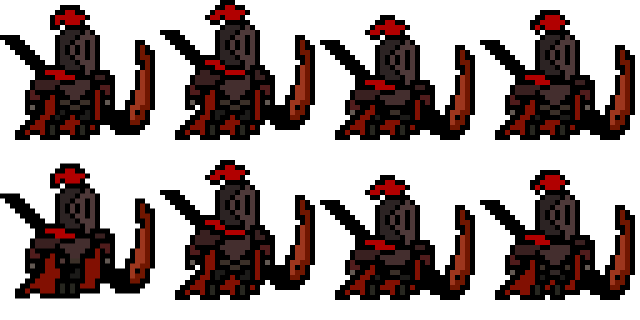
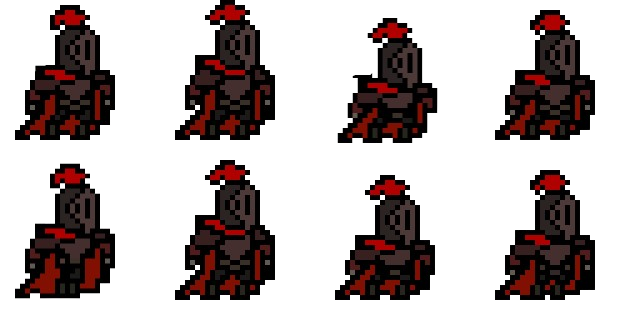
바로 백엔드 정상화

diff --git a/public/game/src/main.js b/public/game/src/main.js
@@ -65,23 +65,23 @@ const options = [
   },
   {
     title: '가속',
-    description: '이동 속도를 0.4 증가시킨다.',
+    description: '이동 속도를 0.2 증가시킨다.',
     type: 3,
-    value: 0.4,
+    value: 0.2,
     level: 1
   },
   {
     title: '가속+',
-    description: '이동 속도를 0.8 증가시킨다.',
+    description: '이동 속도를 0.4 증가시킨다.',
     type: 3,
-    value: 0.8,
+    value: 0.4,
     level: 2
   },
   {
     title: '가속++',
-    description: '이동 속도를 1.5 증가시킨다.',
+    description: '이동 속도를 0.8 증가시킨다.',
     type: 3,
-    value: 1.5,
+    value: 0.8,
     level: 3
   },
   {
@@ -111,10 +111,32 @@ const options = [
     type: 5,
     value: [0.5, 1.8],
     level: 3
+  },
+  {
+    title: '재생',
+    description: '초당 체력을 0.5 회복한다.',
+    type: 6,
+    value: 0.5,
+    level: 1
+  },
+  {
+    title: '재생+',
+    description: '초당 체력을 1 회복한다.',
+    type: 6,
+    value: 1,
+    level: 2
+  },
+  {
+    title: '재생++',
+    description: '초당 체력을 2 회복한다.',
+    type: 6,
+    value: 2,
+    level: 3
   }
 ]
 const enemys = [];
 let boss;
+let regenerative = 0;
 
 const groundPrefab = new Prefab(
   new Entity(
@@ -226,6 +248,10 @@ const onLevelUp = async () => {
             player.maxHealth *= option.value[0];
             player.weapon.damage *= option.value[1];
             player.addHealth(-player.health*option.value[0]);
+            break;
+          case 6:
+            regenerative += option.value;
+            break;
         }
         game.removeElement(overlay);
         resolve();
@@ -259,58 +285,40 @@ const player = new Player(
 
 function genEnemy(x) {
   enemys.push(
-    new Sandbag(
-      game,
-      new Position(x, groundHeight-10),
-      (enemy) => {
+    new Sandbag({
+      game: game,
+      position: new Position(x, groundHeight-10),
+      onDead: (enemy) => {
         const index = enemys.findIndex((e)=>e===enemy);
         if (index !== -1) enemys.splice(index, 1);
       },
-      5 + stage*5,
-      25 + stage*25
-    )
+      damage: 5 + stage*5,
+      health: 25 + stage*25,
+      moveSpeed: 4.2
+    })
   );
   genCount++;
 }
 
 function genBoss() {
-  boss = new Sandbag(
-    game,
-    new Position(-100, groundHeight-10),
-    () => {
+  boss = new Sandbag({
+    game: game,
+    position: new Position(-100, groundHeight-10),
+    onDead: () => {
       boss = null;
       if (stage === 1) {
-        const dialog = new AlertDialog(
-          '무기 스킬 획득',
-          '우클릭을 통하여 낫 투척 사용 가능',
-          {
-            actions: [
-              {
-                text: '확인',
-                color: palette[2],
-                onClick: () => {
-                  player.canWeaponSkill = true;
-                  dialog.close();
-                  if (!player.isProcessingLevelUp) resume();
-                }
-              }
-            ]
-          }
-        );
-        dialog.show(game);
-        pause();
         game.startCoroutine(stage2);
       } else {
         alert('야호 이겼다~!');
       }
     },
-    10+stage*15,
-    300+stage*300,
-    4+stage,
-    1.6,
-    4,
-    10
-  );
+    damage: 10 + stage*15,
+    health: 300 + stage*300,
+    weight: 4 + stage,
+    factor: 1.6,
+    moveSpeed: 5,
+    exp: 10
+  });
 }
 
 function *stage1() {
@@ -344,5 +352,13 @@ function *stage2() {
   genBoss();
 }
 
+function *regeneration() {
+  while (true) {
+    player.addHealth(regenerative);
+    yield waitForDuration(new Duration({second: 1}));
+  }
+}
+
 game.addEntity(endText);
 game.startCoroutine(stage1);
+game.startCoroutine(regeneration);

diff --git a/public/game/src/enemies/enemy.js b/public/game/src/enemies/enemy.js
@@ -1,11 +1,10 @@
-import { Sprite } from '../../entity/data.mjs';
+import { Sprite, Hitbox } from '../../entity/data.mjs';
 import { Size, Position, Color } from '../../graphic/data.mjs';
 import { Duration, waitForDuration } from '../../util/data.mjs';
-import { Decoratable } from '../../entity/data.mjs';
 import ProgressIndicator from '../../ui/progressIndicator.mjs';
 
 class Enemy {
-  constructor(
+  constructor({
     game,
     position,
     size,
@@ -21,7 +20,7 @@ class Enemy {
     weight = 1,
     exp = 1,
     moveSpeed = 3
-  ) {
+  }) {
     this.game = game;
     this.health = maxHealth;
     this.maxHealth = maxHealth;
@@ -47,13 +46,12 @@ class Enemy {
     );
 
     this.hitboxOffset = hitboxPosition;
-    this.hitbox = new Decoratable(
+    this.hitbox = new Hitbox(
       new Position(
         position.x + hitboxPosition.x,
         position.y + hitboxPosition.y
       ),
-      hitboxSize,
-      Color.transparent
+      hitboxSize
     );
 
     this.healthBar = ProgressIndicator.liner(
@@ -127,7 +125,7 @@ class Enemy {
     const playerSprite = this.game.player.sprite;
     while (true) {
       const scaleX = this.sprite.transforms.scaleX || 1;
-      const minDistance = Math.pow(playerSprite.size.width/2, 2);
+      const minDistance = Math.pow(playerSprite.size.width / 2, 2);
       
       if (this.health > 0) {
         const playerPos = playerSprite.position;
@@ -147,12 +145,10 @@ class Enemy {
         }
       }
 
-      this.hitbox.position.x = this.sprite.position.x + this.hitboxOffset.x * scaleX;
-      this.hitbox.position.y = this.sprite.position.y + this.hitboxOffset.y;
-      this.hitbox.setTransform('scaleX', scaleX);
-      
-      this.healthBar.position.x = this.sprite.position.x - this.sprite.size.width*0.25;
-      this.healthBar.position.y = this.sprite.position.y - this.sprite.size.height*0.6;
+      this.hitbox.updatePosition(this.sprite.position, this.hitboxOffset);
+
+      this.healthBar.position.x = this.sprite.position.x - this.sprite.size.width * 0.25;
+      this.healthBar.position.y = this.sprite.position.y - this.sprite.size.height * 0.6;
       
       yield null;
     }

diff --git a/server.js b/server.js
@@ -29,10 +29,8 @@ function getDirectoryList(directoryPath) {
 
 app.get('/file/*', (req, res) => {
   const filePath = path.join(rootDir, req.params[0]);
-  console.log('File path:', filePath);
   res.sendFile(filePath, (err) => {
     if (err) {
-      console.log(err);
       res.status(404).send('<h1>File Not Found</h1>');
     }
   });
@@ -40,15 +38,14 @@ app.get('/file/*', (req, res) => {
 
 app.get('*', async (req, res) => {
   if (req.headers.origin === 'https://file-server.ijw.app') {
-    return res.sendFile(path.join(rootDir, '/file/'+req.path), (err) => {
+    return res.sendFile(path.join(rootDir, 'file', req.path), (err) => {
       if (err) {
-        console.log(err);
         res.status(404).send('<h1>File Not Found</h1>');
       }
     });
   }
+
   let requestedPath = path.join(rootDir, req.path);
-  console.log('Requested path:', requestedPath);
 
   try {
     const stats = fs.statSync(requestedPath);
@@ -71,11 +68,10 @@ app.get('*', async (req, res) => {
       res.sendFile(requestedPath);
     }
   } catch (error) {
-    console.log(error);
     res.status(404).send(`<h1>404 Not Found</h1><code><pre>${error}</pre></code>`);
   }
 });
 
 app.listen(port, () => {
-  console.log(`port: ${port}`);
+  console.log(`Server is running on port ${port}`);
 });

diff --git a/public/game/src/weapons/scythe.js b/public/game/src/weapons/scythe.js
@@ -33,14 +33,14 @@ class Scythe extends Weapon {
   *skill(player, direction) {
     this.setForce(1.6);
     this.skillHitted = false;
-    const dashForce = 80;
+    const throwForce = 80;
     const friction = 4;
     let step = 0;
     this.activate();
-    let velocity = dashForce * direction;
+    let velocity = throwForce * direction;
     while (true) {
       this.setTransform('rotate', -step);
-      step += 4;
+      step += 7;
       this.setPosition({x: this.position.x + velocity});
       velocity = velocity > 0
         ? Math.max(0, velocity - friction)
@@ -54,13 +54,14 @@ class Scythe extends Weapon {
     }
     velocity = 1;
     const invert = direction == 1;
+    this.setForce(-1);
     while (invert ? this.position.x > player.position.x : this.position.x < player.position.x) {
       this.setPosition({x: this.position.x + velocity});
       this.setTransform('rotate', -step);
-      step += 4;
+      step += 3;
       velocity = invert
         ? velocity - friction
-        : velocity + friction
+        : velocity + friction;
 
       yield null;
     }

diff --git a/public/game/src/enemies/sandbag.js b/public/game/src/enemies/sandbag.js
@@ -3,24 +3,24 @@ import Duration from '../../util/duration.mjs';
 import Enemy from './enemy.js';
 
 class Sandbag extends Enemy {
-  constructor(game, position, onDead, damage, health, weight = 1, factor = 1, moveSpeed = 3, exp = 1) {
-    super(
+  constructor({ game, position, onDead, damage, health, weight = 1, factor = 1, moveSpeed = 3, exp = 1 }) {
+    super({
       game,
       position,
-      new Size(120, 200).scale(factor),
+      size: new Size(120, 200).scale(factor),
       onDead,
-      './assets/sandbag-sheet.png',
-      4,
-      2,
-      new Position(-30, -70),
-      new Size(60, 120).scale(factor),
+      spritePath: './assets/sandbag-sheet.png',
+      frames: 4,
+      states: 2,
+      hitboxPosition: new Position(-30, -100*factor),
+      hitboxSize: new Size(60, 120).scale(factor),
       damage,
-      health,
-      new Duration({milisecond: 500}),
+      maxHealth: health,
+      attackSpeed: new Duration({milisecond: 500}),
       weight,
       exp,
       moveSpeed
-    );
+    });
   }
 }
 

diff --git a/public/game/src/player.js b/public/game/src/player.js
@@ -14,7 +14,7 @@ class Player {
     this.keys = [false, false];
     this.canDash = true;
     this.canAttack = true;
-    this.canWeaponSkill = false;
+    this.canWeaponSkill = true;
     this.canWeaponMove = true;
     this.lastDirection = 1;
     this.verticalVelocity = 0;
@@ -60,7 +60,7 @@ class Player {
     this.sprite = new Sprite(
       position,
       new Size(160, 160),
-      './assets/sheet.png',
+      './assets/player-sheet.png',
       4,
       2,
       new Duration({milisecond: 200}),
